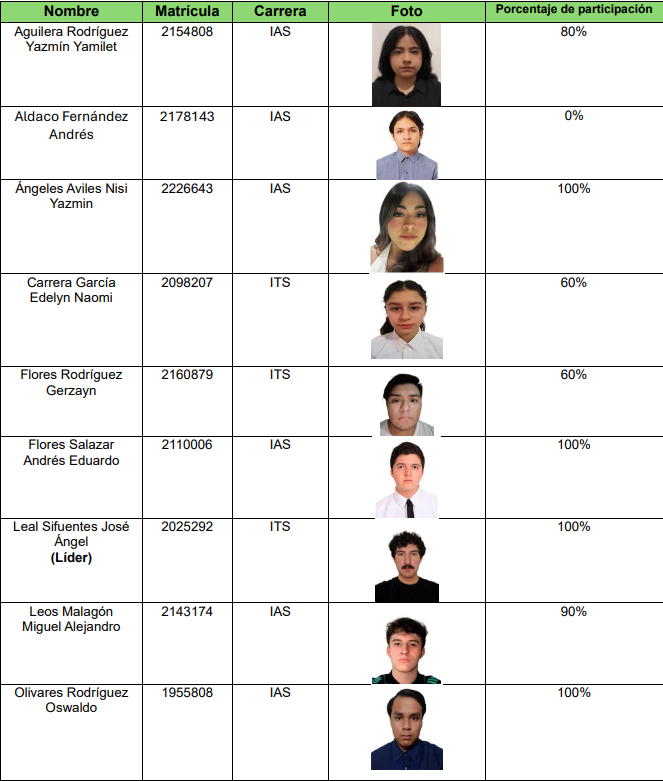
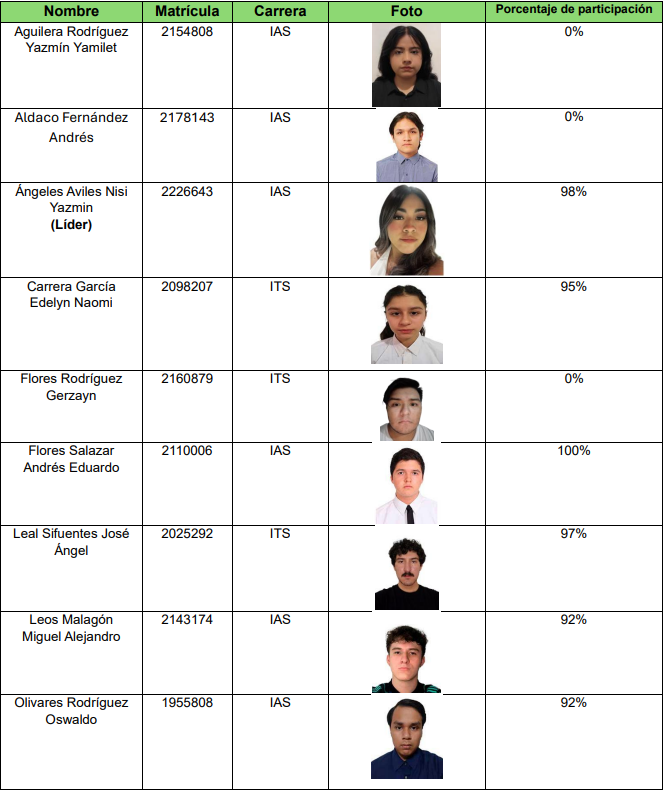
portada actualizada

diff --git a/src/app/index.tsx b/src/app/index.tsx
@@ -109,7 +109,7 @@ headerContainer: {
     width: '100%',
   },
   headerTextBold: {
-    color: '#1E1E1E', // Mantengo el color oscuro que se ve en tu captura
+    color: '#1E1E1E', 
     fontSize: 20, 
     fontWeight: 'bold',
     textAlign: 'center',
@@ -160,7 +160,7 @@ headerContainer: {
     marginBottom: -25, // Acerca la segunda tabla
   },
   tablaPequena: {
-    width: '100%',
+    width: '98%',
     height: 150, 
     marginBottom: 40,
   },
